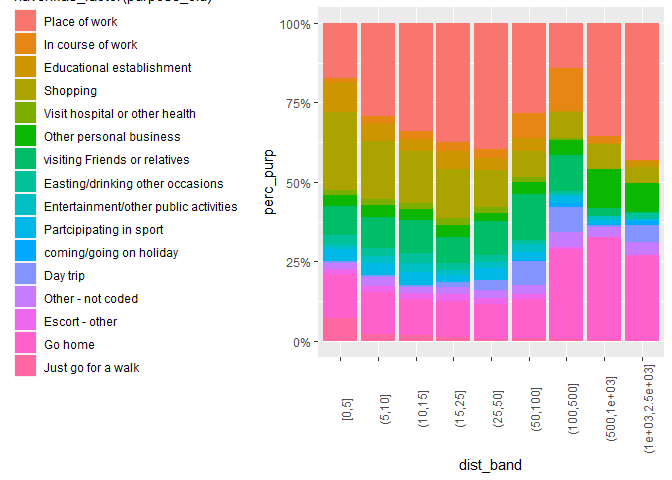
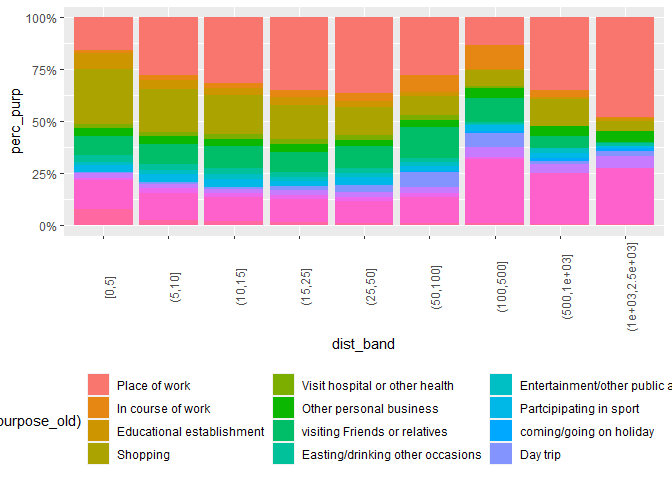
minor updates

diff --git a/README.md b/README.md
@@ -335,7 +335,7 @@ TLD_mode = data |>
                          breaks = tld_bands,
                          include.lowest = T),
          ) |>
-  summarise(Trips = sum(IND_WT*trav_wt,na.rm = T),
+  summarise(Trips = sum(trav_wt,na.rm = T),
             .by = c(mainmode,dist_band)) |> 
   mutate(perc = Trips/sum(Trips),
          .by = c(mainmode))
@@ -362,7 +362,7 @@ TLD_purpose = data |>
                          include.lowest = T),
          ) |>
   drop_na(dist_band) |> 
-  summarise(Trips = sum(IND_WT*trav_wt,na.rm = T),
+  summarise(Trips = sum(trav_wt,na.rm = T),
             .by = c(purpose_old,dist_band)) |> 
   mutate(perc_band = Trips/sum(Trips),
          .by = c(purpose_old)) |> 
@@ -375,7 +375,7 @@ TLD_purpose |>
   ggplot(aes(x=dist_band,y=perc_purp,fill=haven::as_factor(purpose_old)))+
   geom_col(position = "fill")+
   scale_y_continuous(labels = scales::percent_format())+
-  theme(legend.position = "left",
+  theme(legend.position = "bottom",
         axis.text.x = element_text(angle = 90))
 ```
 
@@ -391,8 +391,9 @@ TLD_purpose |>
         axis.text.x = element_text(angle = 90))
 ```
 
-![](README_files/figure-gfm/unnamed-chunk-21-1.png)<!-- --> \### By mode
-and purpose
+![](README_files/figure-gfm/unnamed-chunk-21-1.png)<!-- -->
+
+### By mode and purpose
 
 ``` r
 TLD_mode_purp = data |> 
@@ -400,11 +401,24 @@ TLD_mode_purp = data |>
                          breaks = tld_bands,
                          include.lowest = T),
          ) |>
-  summarise(Trips = sum(IND_WT*trav_wt,na.rm = T),
+  summarise(Trips = sum(trav_wt,na.rm = T),
             .by = c(mainmode,purpose_old,dist_band)) |> 
   mutate(perc = Trips/sum(Trips),
          .by = c(mainmode,purpose_old))
 ```
+
+``` r
+TLD_mode_purp |> 
+  drop_na(dist_band, mainmode) |> 
+  filter(mainmode<9) |> 
+  ggplot(aes(x=dist_band,y=perc,fill=haven::as_factor(purpose_old)))+
+  geom_col()+
+  facet_wrap(haven::as_factor(mainmode)~.)+
+  theme(legend.position = "bottom",
+        axis.text.x = element_text(angle = 90))
+```
+
+![](README_files/figure-gfm/unnamed-chunk-23-1.png)<!-- -->
 
 <div id="refs" class="references csl-bib-body">
 
